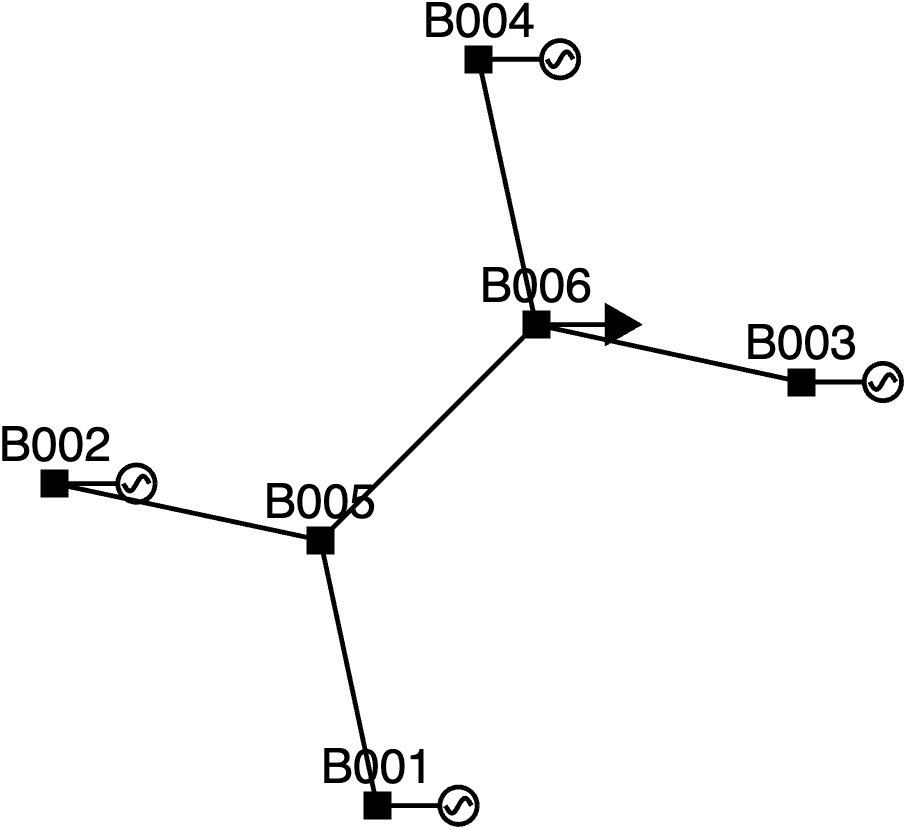
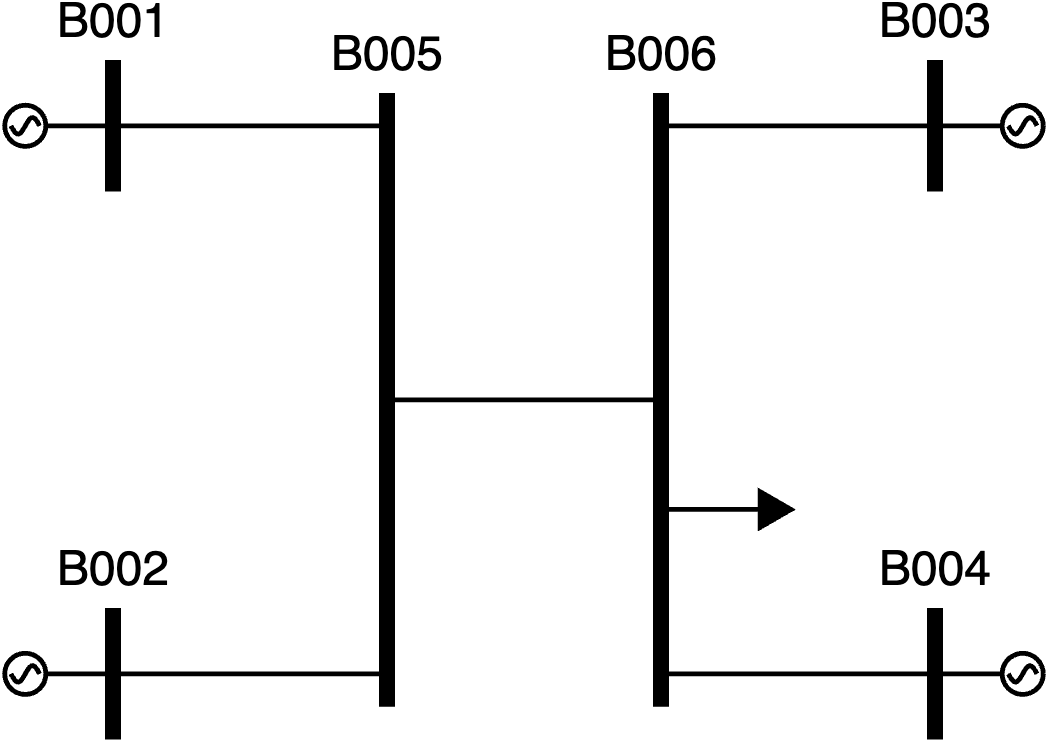
docs: redraw the Tutorial6bus diagrams with the left/right layout

diff --git a/lecture/part4-spring-mass-model.html b/lecture/part4-spring-mass-model.html
@@ -324,7 +324,7 @@
 
           <figure class="lec-figure is-compact is-scroll" style="--lec-min-w: 300px; --lec-fig-max: 380px;">
             <div class="lec-scroll">
-              <img src="../images/lecture/part4/tutorial6bus-single-line.png" alt="Single-line diagram of network.Tutorial6bus: buses B001 and B002 are joined to B005, B003 and B004 to B006, and B005 to B006; a generator is connected to each of B001 to B004" width="1025" height="940">
+              <img src="../images/lecture/part4/tutorial6bus-single-line.png" alt="Single-line diagram of network.Tutorial6bus: buses B001 and B002 on the left are joined to B005, buses B003 and B004 on the right to B006, and B005 to B006; a generator is connected to each of B001 to B004 on the outer side" width="968" height="676">
             </div>
             <figcaption lang="en">Single-line diagram of <code>network.Tutorial6bus</code> drawn by GUILDA with <code>plot_single_line_diagram</code>. The circles with a sine wave are the synchronous machines G1–G4 at B001–B004.</figcaption>
             <figcaption lang="ja"><code>network.Tutorial6bus</code> の単線結線図です（GUILDA の <code>plot_single_line_diagram</code> で描画）。正弦波の入った丸が、B001〜B004 の同期機 G1〜G4 です。</figcaption>
